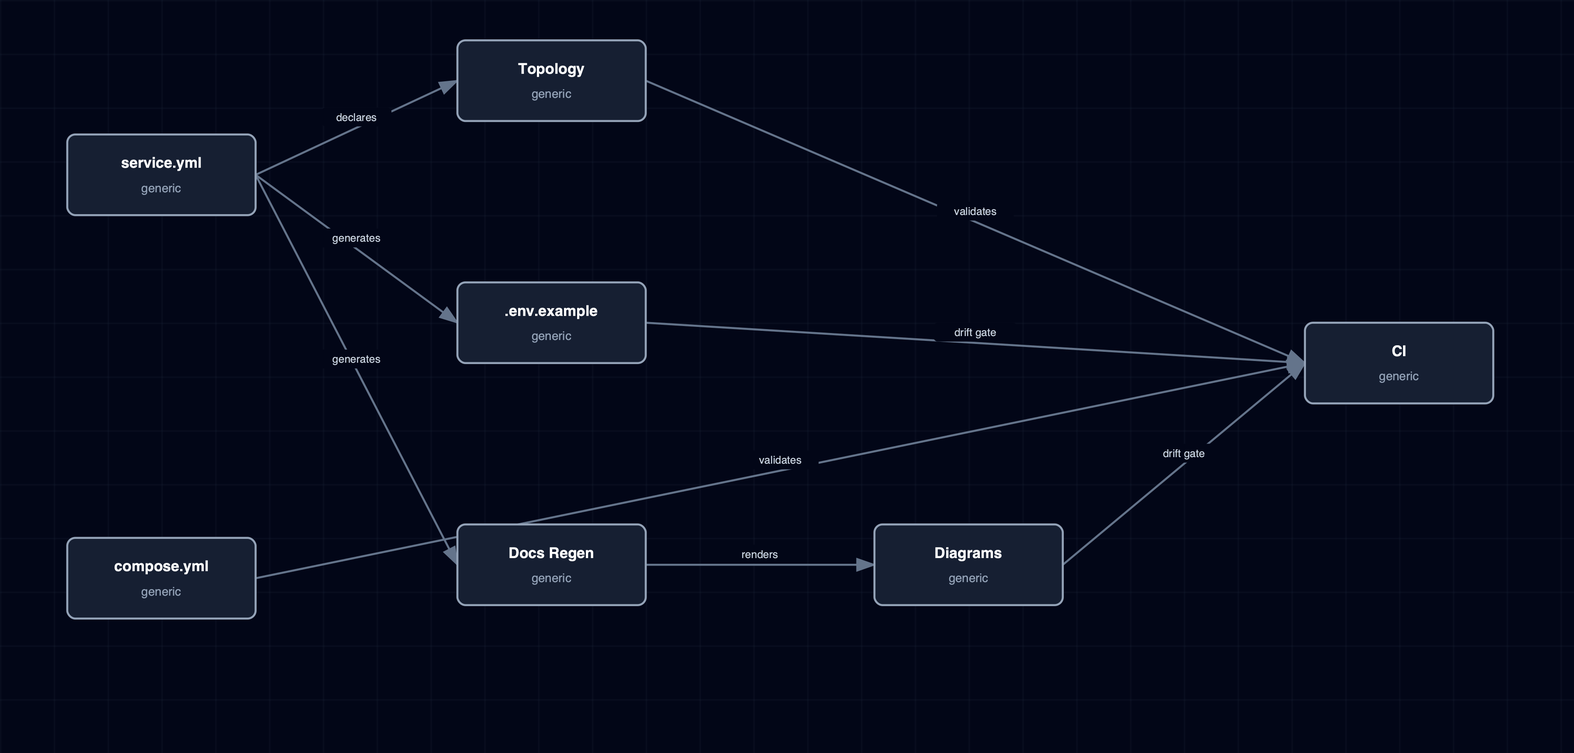
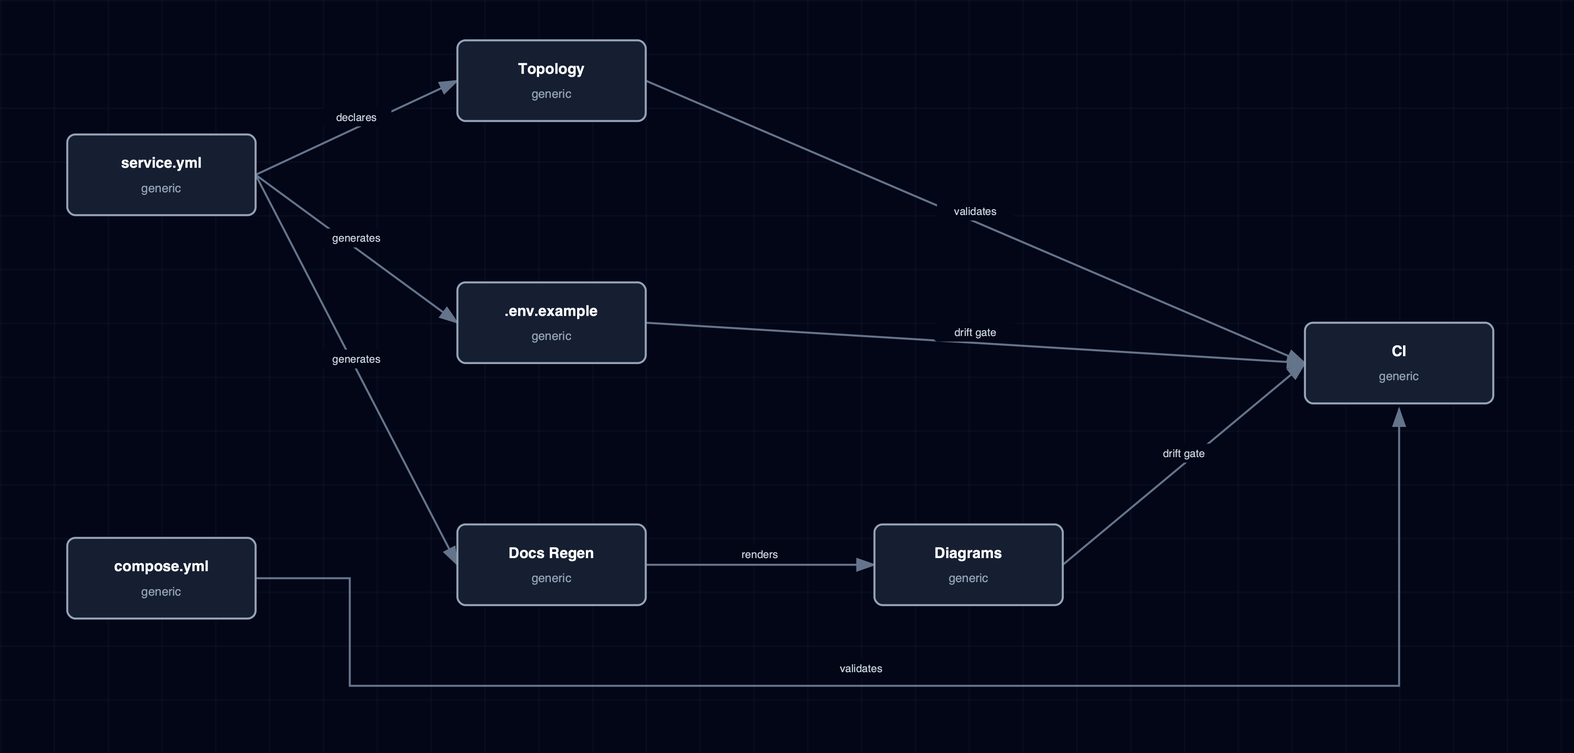
fix(docs): clear perspective connectors and lifecycle labels [skip ci]
Route security injection and Compose validation through clear gutters. Lift lifecycle annotations above fixed cards. Regenerate three HTML and3600px PNG masters. Addresses #1677.

diff --git a/docs/architecture/security-auth-secrets-boundary.html b/docs/architecture/security-auth-secrets-boundary.html
@@ -30,8 +30,8 @@
         </defs>
         <rect width="1380" height="590" fill="#020617"/>
         <rect width="1380" height="590" fill="url(#grid)"/>
-        <line data-source="Gateway Clients" data-target="Kong" x1="180" y1="110" x2="230" y2="110" stroke="#64748b" stroke-width="1.5" marker-end="url(#arrowhead)"/><line data-source="Kong" data-target="Kong Route Policies" x1="370" y1="110" x2="420" y2="110" stroke="#64748b" stroke-width="1.5" marker-end="url(#arrowhead)"/><line data-source="Kong Route Policies" data-target="Routed Services" x1="560" y1="110" x2="610" y2="110" stroke="#64748b" stroke-width="1.5" marker-end="url(#arrowhead)"/><line data-source="Routed Services" data-target="Backend API" x1="750" y1="110" x2="800" y2="180" stroke="#64748b" stroke-width="1.5" marker-end="url(#arrowhead)"/><line data-source="Routed Services" data-target="Public APIs" x1="750" y1="110" x2="990" y2="50" stroke="#64748b" stroke-width="1.5" marker-end="url(#arrowhead)"/><line data-source="Backend API" data-target="Public APIs" x1="940" y1="180" x2="990" y2="50" stroke="#64748b" stroke-width="1.5" marker-end="url(#arrowhead)"/><line data-source="Backend API" data-target="Backend Identity" x1="940" y1="180" x2="990" y2="310" stroke="#64748b" stroke-width="1.5" marker-end="url(#arrowhead)"/><line data-source="Supabase Auth" data-target="Backend Identity" x1="940" y1="310" x2="990" y2="310" stroke="#64748b" stroke-width="1.5" marker-end="url(#arrowhead)"/><line data-source="Backend Identity" data-target="Protected APIs" x1="1130" y1="310" x2="1180" y2="245" stroke="#64748b" stroke-width="1.5" marker-end="url(#arrowhead)"/><line data-source="Backend API" data-target="Plugin Key Auth" x1="940" y1="180" x2="990" y2="180" stroke="#64748b" stroke-width="1.5" marker-end="url(#arrowhead)"/><line data-source="Plugin Key Auth" data-target="Protected APIs" x1="1130" y1="180" x2="1180" y2="245" stroke="#64748b" stroke-width="1.5" marker-end="url(#arrowhead)"/><line data-source="Direct Clients" data-target="Backend API" x1="180" y1="370" x2="800" y2="180" stroke="#64748b" stroke-width="1.5" marker-end="url(#arrowhead)"/><line data-source="Direct Clients" data-target="Trusted UIs" x1="180" y1="370" x2="230" y2="500" stroke="#64748b" stroke-width="1.5" marker-end="url(#arrowhead)"/><line data-source="Runtime Secrets" data-target="Protected APIs" x1="1320" y1="500" x2="1180" y2="245" stroke="#64748b" stroke-width="1.5" marker-end="url(#arrowhead)"/>
-        <rect x="181.5" y="95.0" width="47" height="14" rx="3" fill="#020617"/><text x="205.0" y="105.0" fill="#cbd5e1" font-size="8" text-anchor="middle">gateway</text><rect x="374.0" y="95.0" width="42" height="14" rx="3" fill="#020617"/><text x="395.0" y="105.0" fill="#cbd5e1" font-size="8" text-anchor="middle">policy</text><rect x="561.5" y="95.0" width="47" height="14" rx="3" fill="#020617"/><text x="585.0" y="105.0" fill="#cbd5e1" font-size="8" text-anchor="middle">forward</text><rect x="751.5" y="130.0" width="47" height="14" rx="3" fill="#020617"/><text x="775.0" y="140.0" fill="#cbd5e1" font-size="8" text-anchor="middle">backend</text><rect x="849.0" y="65.0" width="42" height="14" rx="3" fill="#020617"/><text x="870.0" y="75.0" fill="#cbd5e1" font-size="8" text-anchor="middle">public</text><rect x="944.0" y="100.0" width="42" height="14" rx="3" fill="#020617"/><text x="965.0" y="110.0" fill="#cbd5e1" font-size="8" text-anchor="middle">public</text><rect x="939.0" y="230.0" width="52" height="14" rx="3" fill="#020617"/><text x="965.0" y="240.0" fill="#cbd5e1" font-size="8" text-anchor="middle">identity</text><rect x="945.0" y="295.0" width="40" height="14" rx="3" fill="#020617"/><text x="965.0" y="305.0" fill="#cbd5e1" font-size="8" text-anchor="middle">JWT</text><rect x="1126.5" y="262.5" width="57" height="14" rx="3" fill="#020617"/><text x="1155.0" y="272.5" fill="#cbd5e1" font-size="8" text-anchor="middle">authorize</text><rect x="944.0" y="165.0" width="42" height="14" rx="3" fill="#020617"/><text x="965.0" y="175.0" fill="#cbd5e1" font-size="8" text-anchor="middle">plugin</text><rect x="1135.0" y="197.5" width="40" height="14" rx="3" fill="#020617"/><text x="1155.0" y="207.5" fill="#cbd5e1" font-size="8" text-anchor="middle">key</text><rect x="456.5" y="260.0" width="67" height="14" rx="3" fill="#020617"/><text x="490.0" y="270.0" fill="#cbd5e1" font-size="8" text-anchor="middle">direct port</text><rect x="161.5" y="420.0" width="87" height="14" rx="3" fill="#020617"/><text x="205.0" y="430.0" fill="#cbd5e1" font-size="8" text-anchor="middle">operator access</text><rect x="1229.0" y="357.5" width="42" height="14" rx="3" fill="#020617"/><text x="1250.0" y="367.5" fill="#cbd5e1" font-size="8" text-anchor="middle">inject</text>
+        <line data-source="Gateway Clients" data-target="Kong" x1="180" y1="110" x2="230" y2="110" stroke="#64748b" stroke-width="1.5" marker-end="url(#arrowhead)"/><line data-source="Kong" data-target="Kong Route Policies" x1="370" y1="110" x2="420" y2="110" stroke="#64748b" stroke-width="1.5" marker-end="url(#arrowhead)"/><line data-source="Kong Route Policies" data-target="Routed Services" x1="560" y1="110" x2="610" y2="110" stroke="#64748b" stroke-width="1.5" marker-end="url(#arrowhead)"/><line data-source="Routed Services" data-target="Backend API" x1="750" y1="110" x2="800" y2="180" stroke="#64748b" stroke-width="1.5" marker-end="url(#arrowhead)"/><line data-source="Routed Services" data-target="Public APIs" x1="750" y1="110" x2="990" y2="50" stroke="#64748b" stroke-width="1.5" marker-end="url(#arrowhead)"/><line data-source="Backend API" data-target="Public APIs" x1="940" y1="180" x2="990" y2="50" stroke="#64748b" stroke-width="1.5" marker-end="url(#arrowhead)"/><line data-source="Backend API" data-target="Backend Identity" x1="940" y1="180" x2="990" y2="310" stroke="#64748b" stroke-width="1.5" marker-end="url(#arrowhead)"/><line data-source="Supabase Auth" data-target="Backend Identity" x1="940" y1="310" x2="990" y2="310" stroke="#64748b" stroke-width="1.5" marker-end="url(#arrowhead)"/><line data-source="Backend Identity" data-target="Protected APIs" x1="1130" y1="310" x2="1180" y2="245" stroke="#64748b" stroke-width="1.5" marker-end="url(#arrowhead)"/><line data-source="Backend API" data-target="Plugin Key Auth" x1="940" y1="180" x2="990" y2="180" stroke="#64748b" stroke-width="1.5" marker-end="url(#arrowhead)"/><line data-source="Plugin Key Auth" data-target="Protected APIs" x1="1130" y1="180" x2="1180" y2="245" stroke="#64748b" stroke-width="1.5" marker-end="url(#arrowhead)"/><line data-source="Direct Clients" data-target="Backend API" x1="180" y1="370" x2="800" y2="180" stroke="#64748b" stroke-width="1.5" marker-end="url(#arrowhead)"/><line data-source="Direct Clients" data-target="Trusted UIs" x1="180" y1="370" x2="230" y2="500" stroke="#64748b" stroke-width="1.5" marker-end="url(#arrowhead)"/><polyline data-source="Runtime Secrets" data-target="Protected APIs" points="1250,466 1250,279" fill="none" stroke="#64748b" stroke-width="1.5" marker-end="url(#arrowhead)"/>
+        <rect x="181.5" y="95.0" width="47" height="14" rx="3" fill="#020617"/><text x="205.0" y="105.0" fill="#cbd5e1" font-size="8" text-anchor="middle">gateway</text><rect x="374.0" y="95.0" width="42" height="14" rx="3" fill="#020617"/><text x="395.0" y="105.0" fill="#cbd5e1" font-size="8" text-anchor="middle">policy</text><rect x="561.5" y="95.0" width="47" height="14" rx="3" fill="#020617"/><text x="585.0" y="105.0" fill="#cbd5e1" font-size="8" text-anchor="middle">forward</text><rect x="751.5" y="130.0" width="47" height="14" rx="3" fill="#020617"/><text x="775.0" y="140.0" fill="#cbd5e1" font-size="8" text-anchor="middle">backend</text><rect x="849.0" y="65.0" width="42" height="14" rx="3" fill="#020617"/><text x="870.0" y="75.0" fill="#cbd5e1" font-size="8" text-anchor="middle">public</text><rect x="944.0" y="100.0" width="42" height="14" rx="3" fill="#020617"/><text x="965.0" y="110.0" fill="#cbd5e1" font-size="8" text-anchor="middle">public</text><rect x="939.0" y="230.0" width="52" height="14" rx="3" fill="#020617"/><text x="965.0" y="240.0" fill="#cbd5e1" font-size="8" text-anchor="middle">identity</text><rect x="945.0" y="295.0" width="40" height="14" rx="3" fill="#020617"/><text x="965.0" y="305.0" fill="#cbd5e1" font-size="8" text-anchor="middle">JWT</text><rect x="1126.5" y="262.5" width="57" height="14" rx="3" fill="#020617"/><text x="1155.0" y="272.5" fill="#cbd5e1" font-size="8" text-anchor="middle">authorize</text><rect x="944.0" y="165.0" width="42" height="14" rx="3" fill="#020617"/><text x="965.0" y="175.0" fill="#cbd5e1" font-size="8" text-anchor="middle">plugin</text><rect x="1135.0" y="197.5" width="40" height="14" rx="3" fill="#020617"/><text x="1155.0" y="207.5" fill="#cbd5e1" font-size="8" text-anchor="middle">key</text><rect x="456.5" y="260.0" width="67" height="14" rx="3" fill="#020617"/><text x="490.0" y="270.0" fill="#cbd5e1" font-size="8" text-anchor="middle">direct port</text><rect x="161.5" y="420.0" width="87" height="14" rx="3" fill="#020617"/><text x="205.0" y="430.0" fill="#cbd5e1" font-size="8" text-anchor="middle">operator access</text><rect x="1229.0" y="360" width="42" height="14" rx="3" fill="#020617"/><text x="1250" y="370" fill="#cbd5e1" font-size="8" text-anchor="middle">inject</text>
         <rect x="40" y="80" width="140" height="60" rx="6" fill="#0f172a"/><rect x="40" y="80" width="140" height="60" rx="6" fill="rgba(8, 51, 68, 0.4)" stroke="#22d3ee" stroke-width="1.5"/><text x="110.0" y="105" fill="white" font-size="11" font-weight="600" text-anchor="middle">Gateway Clients</text><text x="110.0" y="123" fill="#94a3b8" font-size="9" text-anchor="middle">frontend</text><rect x="40" y="340" width="140" height="60" rx="6" fill="#0f172a"/><rect x="40" y="340" width="140" height="60" rx="6" fill="rgba(8, 51, 68, 0.4)" stroke="#22d3ee" stroke-width="1.5"/><text x="110.0" y="365" fill="white" font-size="11" font-weight="600" text-anchor="middle">Direct Clients</text><text x="110.0" y="383" fill="#94a3b8" font-size="9" text-anchor="middle">frontend</text><rect x="230" y="80" width="140" height="60" rx="6" fill="#0f172a"/><rect x="230" y="80" width="140" height="60" rx="6" fill="rgba(136, 19, 55, 0.4)" stroke="#fb7185" stroke-width="1.5"/><text x="300.0" y="105" fill="white" font-size="11" font-weight="600" text-anchor="middle">Kong</text><text x="300.0" y="123" fill="#94a3b8" font-size="9" text-anchor="middle">security</text><rect x="420" y="80" width="140" height="60" rx="6" fill="#0f172a"/><rect x="420" y="80" width="140" height="60" rx="6" fill="rgba(136, 19, 55, 0.4)" stroke="#fb7185" stroke-width="1.5"/><text x="490.0" y="105" fill="white" font-size="11" font-weight="600" text-anchor="middle">Kong Route Policies</text><text x="490.0" y="123" fill="#94a3b8" font-size="9" text-anchor="middle">security</text><rect x="610" y="80" width="140" height="60" rx="6" fill="#0f172a"/><rect x="610" y="80" width="140" height="60" rx="6" fill="rgba(6, 78, 59, 0.4)" stroke="#34d399" stroke-width="1.5"/><text x="680.0" y="105" fill="white" font-size="11" font-weight="600" text-anchor="middle">Routed Services</text><text x="680.0" y="123" fill="#94a3b8" font-size="9" text-anchor="middle">backend</text><rect x="800" y="150" width="140" height="60" rx="6" fill="#0f172a"/><rect x="800" y="150" width="140" height="60" rx="6" fill="rgba(6, 78, 59, 0.4)" stroke="#34d399" stroke-width="1.5"/><text x="870.0" y="175" fill="white" font-size="11" font-weight="600" text-anchor="middle">Backend API</text><text x="870.0" y="193" fill="#94a3b8" font-size="9" text-anchor="middle">backend</text><rect x="800" y="280" width="140" height="60" rx="6" fill="#0f172a"/><rect x="800" y="280" width="140" height="60" rx="6" fill="rgba(76, 29, 149, 0.4)" stroke="#a78bfa" stroke-width="1.5"/><text x="870.0" y="305" fill="white" font-size="11" font-weight="600" text-anchor="middle">Supabase Auth</text><text x="870.0" y="323" fill="#94a3b8" font-size="9" text-anchor="middle">data</text><rect x="990" y="280" width="140" height="60" rx="6" fill="#0f172a"/><rect x="990" y="280" width="140" height="60" rx="6" fill="rgba(136, 19, 55, 0.4)" stroke="#fb7185" stroke-width="1.5"/><text x="1060.0" y="305" fill="white" font-size="11" font-weight="600" text-anchor="middle">Backend Identity</text><text x="1060.0" y="323" fill="#94a3b8" font-size="9" text-anchor="middle">security</text><rect x="990" y="150" width="140" height="60" rx="6" fill="#0f172a"/><rect x="990" y="150" width="140" height="60" rx="6" fill="rgba(136, 19, 55, 0.4)" stroke="#fb7185" stroke-width="1.5"/><text x="1060.0" y="175" fill="white" font-size="11" font-weight="600" text-anchor="middle">Plugin Key Auth</text><text x="1060.0" y="193" fill="#94a3b8" font-size="9" text-anchor="middle">security</text><rect x="1180" y="215" width="140" height="60" rx="6" fill="#0f172a"/><rect x="1180" y="215" width="140" height="60" rx="6" fill="rgba(6, 78, 59, 0.4)" stroke="#34d399" stroke-width="1.5"/><text x="1250.0" y="240" fill="white" font-size="11" font-weight="600" text-anchor="middle">Protected APIs</text><text x="1250.0" y="258" fill="#94a3b8" font-size="9" text-anchor="middle">backend</text><rect x="990" y="20" width="140" height="60" rx="6" fill="#0f172a"/><rect x="990" y="20" width="140" height="60" rx="6" fill="rgba(6, 78, 59, 0.4)" stroke="#34d399" stroke-width="1.5"/><text x="1060.0" y="45" fill="white" font-size="11" font-weight="600" text-anchor="middle">Public APIs</text><text x="1060.0" y="63" fill="#94a3b8" font-size="9" text-anchor="middle">backend</text><rect x="1180" y="470" width="140" height="60" rx="6" fill="#0f172a"/><rect x="1180" y="470" width="140" height="60" rx="6" fill="rgba(136, 19, 55, 0.4)" stroke="#fb7185" stroke-width="1.5"/><text x="1250.0" y="495" fill="white" font-size="11" font-weight="600" text-anchor="middle">Runtime Secrets</text><text x="1250.0" y="513" fill="#94a3b8" font-size="9" text-anchor="middle">security</text><rect x="230" y="470" width="140" height="60" rx="6" fill="#0f172a"/><rect x="230" y="470" width="140" height="60" rx="6" fill="rgba(136, 19, 55, 0.4)" stroke="#fb7185" stroke-width="1.5"/><text x="300.0" y="495" fill="white" font-size="11" font-weight="600" text-anchor="middle">Trusted UIs</text><text x="300.0" y="513" fill="#94a3b8" font-size="9" text-anchor="middle">security</text>
       </svg>
     </div>

diff --git a/docs/architecture/service-admission-workflow.html b/docs/architecture/service-admission-workflow.html
@@ -30,8 +30,8 @@
         </defs>
         <rect width="1170" height="560" fill="#020617"/>
         <rect width="1170" height="560" fill="url(#grid)"/>
-        <line data-source="service.yml" data-target="Topology" x1="190" y1="130" x2="340" y2="60" stroke="#64748b" stroke-width="1.5" marker-end="url(#arrowhead)"/><line data-source="service.yml" data-target=".env.example" x1="190" y1="130" x2="340" y2="240" stroke="#64748b" stroke-width="1.5" marker-end="url(#arrowhead)"/><line data-source="service.yml" data-target="Docs Regen" x1="190" y1="130" x2="340" y2="420" stroke="#64748b" stroke-width="1.5" marker-end="url(#arrowhead)"/><line data-source="compose.yml" data-target="CI" x1="190" y1="430" x2="970" y2="270" stroke="#64748b" stroke-width="1.5" marker-end="url(#arrowhead)"/><line data-source="Topology" data-target="CI" x1="480" y1="60" x2="970" y2="270" stroke="#64748b" stroke-width="1.5" marker-end="url(#arrowhead)"/><line data-source=".env.example" data-target="CI" x1="480" y1="240" x2="970" y2="270" stroke="#64748b" stroke-width="1.5" marker-end="url(#arrowhead)"/><line data-source="Docs Regen" data-target="Diagrams" x1="480" y1="420" x2="650" y2="420" stroke="#64748b" stroke-width="1.5" marker-end="url(#arrowhead)"/><line data-source="Diagrams" data-target="CI" x1="790" y1="420" x2="970" y2="270" stroke="#64748b" stroke-width="1.5" marker-end="url(#arrowhead)"/>
-        <rect x="239.0" y="80.0" width="52" height="14" rx="3" fill="#020617"/><text x="265.0" y="90.0" fill="#cbd5e1" font-size="8" text-anchor="middle">declares</text><rect x="236.5" y="170.0" width="57" height="14" rx="3" fill="#020617"/><text x="265.0" y="180.0" fill="#cbd5e1" font-size="8" text-anchor="middle">generates</text><rect x="236.5" y="260.0" width="57" height="14" rx="3" fill="#020617"/><text x="265.0" y="270.0" fill="#cbd5e1" font-size="8" text-anchor="middle">generates</text><rect x="551.5" y="335.0" width="57" height="14" rx="3" fill="#020617"/><text x="580.0" y="345.0" fill="#cbd5e1" font-size="8" text-anchor="middle">validates</text><rect x="696.5" y="150.0" width="57" height="14" rx="3" fill="#020617"/><text x="725.0" y="160.0" fill="#cbd5e1" font-size="8" text-anchor="middle">validates</text><rect x="694.0" y="240.0" width="62" height="14" rx="3" fill="#020617"/><text x="725.0" y="250.0" fill="#cbd5e1" font-size="8" text-anchor="middle">drift gate</text><rect x="541.5" y="405.0" width="47" height="14" rx="3" fill="#020617"/><text x="565.0" y="415.0" fill="#cbd5e1" font-size="8" text-anchor="middle">renders</text><rect x="849.0" y="330.0" width="62" height="14" rx="3" fill="#020617"/><text x="880.0" y="340.0" fill="#cbd5e1" font-size="8" text-anchor="middle">drift gate</text>
+        <line data-source="service.yml" data-target="Topology" x1="190" y1="130" x2="340" y2="60" stroke="#64748b" stroke-width="1.5" marker-end="url(#arrowhead)"/><line data-source="service.yml" data-target=".env.example" x1="190" y1="130" x2="340" y2="240" stroke="#64748b" stroke-width="1.5" marker-end="url(#arrowhead)"/><line data-source="service.yml" data-target="Docs Regen" x1="190" y1="130" x2="340" y2="420" stroke="#64748b" stroke-width="1.5" marker-end="url(#arrowhead)"/><polyline data-source="compose.yml" data-target="CI" points="190,430 260,430 260,510 1040,510 1040,304" fill="none" stroke="#64748b" stroke-width="1.5" marker-end="url(#arrowhead)"/><line data-source="Topology" data-target="CI" x1="480" y1="60" x2="970" y2="270" stroke="#64748b" stroke-width="1.5" marker-end="url(#arrowhead)"/><line data-source=".env.example" data-target="CI" x1="480" y1="240" x2="970" y2="270" stroke="#64748b" stroke-width="1.5" marker-end="url(#arrowhead)"/><line data-source="Docs Regen" data-target="Diagrams" x1="480" y1="420" x2="650" y2="420" stroke="#64748b" stroke-width="1.5" marker-end="url(#arrowhead)"/><line data-source="Diagrams" data-target="CI" x1="790" y1="420" x2="970" y2="270" stroke="#64748b" stroke-width="1.5" marker-end="url(#arrowhead)"/>
+        <rect x="239.0" y="80.0" width="52" height="14" rx="3" fill="#020617"/><text x="265.0" y="90.0" fill="#cbd5e1" font-size="8" text-anchor="middle">declares</text><rect x="236.5" y="170.0" width="57" height="14" rx="3" fill="#020617"/><text x="265.0" y="180.0" fill="#cbd5e1" font-size="8" text-anchor="middle">generates</text><rect x="236.5" y="260.0" width="57" height="14" rx="3" fill="#020617"/><text x="265.0" y="270.0" fill="#cbd5e1" font-size="8" text-anchor="middle">generates</text><rect x="611.5" y="490" width="57" height="14" rx="3" fill="#020617"/><text x="640" y="500" fill="#cbd5e1" font-size="8" text-anchor="middle">validates</text><rect x="696.5" y="150.0" width="57" height="14" rx="3" fill="#020617"/><text x="725.0" y="160.0" fill="#cbd5e1" font-size="8" text-anchor="middle">validates</text><rect x="694.0" y="240.0" width="62" height="14" rx="3" fill="#020617"/><text x="725.0" y="250.0" fill="#cbd5e1" font-size="8" text-anchor="middle">drift gate</text><rect x="541.5" y="405.0" width="47" height="14" rx="3" fill="#020617"/><text x="565.0" y="415.0" fill="#cbd5e1" font-size="8" text-anchor="middle">renders</text><rect x="849.0" y="330.0" width="62" height="14" rx="3" fill="#020617"/><text x="880.0" y="340.0" fill="#cbd5e1" font-size="8" text-anchor="middle">drift gate</text>
         <rect x="50" y="100" width="140" height="60" rx="6" fill="#0f172a"/><rect x="50" y="100" width="140" height="60" rx="6" fill="rgba(30, 41, 59, 0.5)" stroke="#94a3b8" stroke-width="1.5"/><text x="120.0" y="125" fill="white" font-size="11" font-weight="600" text-anchor="middle">service.yml</text><text x="120.0" y="143" fill="#94a3b8" font-size="9" text-anchor="middle">generic</text><rect x="50" y="400" width="140" height="60" rx="6" fill="#0f172a"/><rect x="50" y="400" width="140" height="60" rx="6" fill="rgba(30, 41, 59, 0.5)" stroke="#94a3b8" stroke-width="1.5"/><text x="120.0" y="425" fill="white" font-size="11" font-weight="600" text-anchor="middle">compose.yml</text><text x="120.0" y="443" fill="#94a3b8" font-size="9" text-anchor="middle">generic</text><rect x="340" y="30" width="140" height="60" rx="6" fill="#0f172a"/><rect x="340" y="30" width="140" height="60" rx="6" fill="rgba(30, 41, 59, 0.5)" stroke="#94a3b8" stroke-width="1.5"/><text x="410.0" y="55" fill="white" font-size="11" font-weight="600" text-anchor="middle">Topology</text><text x="410.0" y="73" fill="#94a3b8" font-size="9" text-anchor="middle">generic</text><rect x="340" y="210" width="140" height="60" rx="6" fill="#0f172a"/><rect x="340" y="210" width="140" height="60" rx="6" fill="rgba(30, 41, 59, 0.5)" stroke="#94a3b8" stroke-width="1.5"/><text x="410.0" y="235" fill="white" font-size="11" font-weight="600" text-anchor="middle">.env.example</text><text x="410.0" y="253" fill="#94a3b8" font-size="9" text-anchor="middle">generic</text><rect x="340" y="390" width="140" height="60" rx="6" fill="#0f172a"/><rect x="340" y="390" width="140" height="60" rx="6" fill="rgba(30, 41, 59, 0.5)" stroke="#94a3b8" stroke-width="1.5"/><text x="410.0" y="415" fill="white" font-size="11" font-weight="600" text-anchor="middle">Docs Regen</text><text x="410.0" y="433" fill="#94a3b8" font-size="9" text-anchor="middle">generic</text><rect x="650" y="390" width="140" height="60" rx="6" fill="#0f172a"/><rect x="650" y="390" width="140" height="60" rx="6" fill="rgba(30, 41, 59, 0.5)" stroke="#94a3b8" stroke-width="1.5"/><text x="720.0" y="415" fill="white" font-size="11" font-weight="600" text-anchor="middle">Diagrams</text><text x="720.0" y="433" fill="#94a3b8" font-size="9" text-anchor="middle">generic</text><rect x="970" y="240" width="140" height="60" rx="6" fill="#0f172a"/><rect x="970" y="240" width="140" height="60" rx="6" fill="rgba(30, 41, 59, 0.5)" stroke="#94a3b8" stroke-width="1.5"/><text x="1040.0" y="265" fill="white" font-size="11" font-weight="600" text-anchor="middle">CI</text><text x="1040.0" y="283" fill="#94a3b8" font-size="9" text-anchor="middle">generic</text>
       </svg>
     </div>

diff --git a/docs/architecture/bootstrapper-lifecycle.html b/docs/architecture/bootstrapper-lifecycle.html
@@ -30,8 +30,8 @@
         </defs>
         <rect width="1465" height="560" fill="#020617"/>
         <rect width="1465" height="560" fill="url(#grid)"/>
-        <line data-source="start.sh" data-target="Env Load" x1="180" y1="260" x2="215" y2="260" stroke="#64748b" stroke-width="1.5" marker-end="url(#arrowhead)"/><line data-source="Env Load" data-target="Migrations" x1="355" y1="260" x2="390" y2="260" stroke="#64748b" stroke-width="1.5" marker-end="url(#arrowhead)"/><line data-source="Migrations" data-target="Manifests" x1="530" y1="260" x2="565" y2="260" stroke="#64748b" stroke-width="1.5" marker-end="url(#arrowhead)"/><line data-source="Manifests" data-target="Tracks" x1="705" y1="260" x2="740" y2="260" stroke="#64748b" stroke-width="1.5" marker-end="url(#arrowhead)"/><line data-source="Tracks" data-target="Kong Routes" x1="880" y1="260" x2="915" y2="260" stroke="#64748b" stroke-width="1.5" marker-end="url(#arrowhead)"/><line data-source="Kong Routes" data-target="Compose" x1="1055" y1="260" x2="1090" y2="260" stroke="#64748b" stroke-width="1.5" marker-end="url(#arrowhead)"/><line data-source="Compose" data-target="Logs" x1="1230" y1="260" x2="1265" y2="260" stroke="#64748b" stroke-width="1.5" marker-end="url(#arrowhead)"/>
-        <rect x="176.5" y="245.0" width="42" height="14" rx="3" fill="#020617"/><text x="197.5" y="255.0" fill="#cbd5e1" font-size="8" text-anchor="middle">invoke</text><rect x="344.0" y="245.0" width="57" height="14" rx="3" fill="#020617"/><text x="372.5" y="255.0" fill="#cbd5e1" font-size="8" text-anchor="middle">normalize</text><rect x="516.5" y="245.0" width="62" height="14" rx="3" fill="#020617"/><text x="547.5" y="255.0" fill="#cbd5e1" font-size="8" text-anchor="middle">synthesize</text><rect x="701.5" y="245.0" width="42" height="14" rx="3" fill="#020617"/><text x="722.5" y="255.0" fill="#cbd5e1" font-size="8" text-anchor="middle">filter</text><rect x="871.5" y="245.0" width="52" height="14" rx="3" fill="#020617"/><text x="897.5" y="255.0" fill="#cbd5e1" font-size="8" text-anchor="middle">generate</text><rect x="1046.5" y="245.0" width="52" height="14" rx="3" fill="#020617"/><text x="1072.5" y="255.0" fill="#cbd5e1" font-size="8" text-anchor="middle">assemble</text><rect x="1226.5" y="245.0" width="42" height="14" rx="3" fill="#020617"/><text x="1247.5" y="255.0" fill="#cbd5e1" font-size="8" text-anchor="middle">launch</text>
+        <polyline data-source="start.sh" data-target="Env Load" points="180,260 215,260" fill="none" stroke="#64748b" stroke-width="1.5" marker-end="url(#arrowhead)"/><polyline data-source="Env Load" data-target="Migrations" points="355,260 390,260" fill="none" stroke="#64748b" stroke-width="1.5" marker-end="url(#arrowhead)"/><polyline data-source="Migrations" data-target="Manifests" points="530,260 565,260" fill="none" stroke="#64748b" stroke-width="1.5" marker-end="url(#arrowhead)"/><polyline data-source="Manifests" data-target="Tracks" points="705,260 740,260" fill="none" stroke="#64748b" stroke-width="1.5" marker-end="url(#arrowhead)"/><polyline data-source="Tracks" data-target="Kong Routes" points="880,260 915,260" fill="none" stroke="#64748b" stroke-width="1.5" marker-end="url(#arrowhead)"/><polyline data-source="Kong Routes" data-target="Compose" points="1055,260 1090,260" fill="none" stroke="#64748b" stroke-width="1.5" marker-end="url(#arrowhead)"/><polyline data-source="Compose" data-target="Logs" points="1230,260 1265,260" fill="none" stroke="#64748b" stroke-width="1.5" marker-end="url(#arrowhead)"/>
+        <rect x="176.5" y="210" width="42" height="14" rx="3" fill="#020617"/><text x="197.5" y="220" fill="#cbd5e1" font-size="8" text-anchor="middle">invoke</text><rect x="344.0" y="210" width="57" height="14" rx="3" fill="#020617"/><text x="372.5" y="220" fill="#cbd5e1" font-size="8" text-anchor="middle">normalize</text><rect x="516.5" y="210" width="62" height="14" rx="3" fill="#020617"/><text x="547.5" y="220" fill="#cbd5e1" font-size="8" text-anchor="middle">synthesize</text><rect x="701.5" y="210" width="42" height="14" rx="3" fill="#020617"/><text x="722.5" y="220" fill="#cbd5e1" font-size="8" text-anchor="middle">filter</text><rect x="871.5" y="210" width="52" height="14" rx="3" fill="#020617"/><text x="897.5" y="220" fill="#cbd5e1" font-size="8" text-anchor="middle">generate</text><rect x="1046.5" y="210" width="52" height="14" rx="3" fill="#020617"/><text x="1072.5" y="220" fill="#cbd5e1" font-size="8" text-anchor="middle">assemble</text><rect x="1226.5" y="210" width="42" height="14" rx="3" fill="#020617"/><text x="1247.5" y="220" fill="#cbd5e1" font-size="8" text-anchor="middle">launch</text>
         <rect x="40" y="230" width="140" height="60" rx="6" fill="#0f172a"/><rect x="40" y="230" width="140" height="60" rx="6" fill="rgba(30, 41, 59, 0.5)" stroke="#94a3b8" stroke-width="1.5"/><text x="110.0" y="255" fill="white" font-size="11" font-weight="600" text-anchor="middle">start.sh</text><text x="110.0" y="273" fill="#94a3b8" font-size="9" text-anchor="middle">generic</text><rect x="215" y="230" width="140" height="60" rx="6" fill="#0f172a"/><rect x="215" y="230" width="140" height="60" rx="6" fill="rgba(30, 41, 59, 0.5)" stroke="#94a3b8" stroke-width="1.5"/><text x="285.0" y="255" fill="white" font-size="11" font-weight="600" text-anchor="middle">Env Load</text><text x="285.0" y="273" fill="#94a3b8" font-size="9" text-anchor="middle">generic</text><rect x="390" y="230" width="140" height="60" rx="6" fill="#0f172a"/><rect x="390" y="230" width="140" height="60" rx="6" fill="rgba(30, 41, 59, 0.5)" stroke="#94a3b8" stroke-width="1.5"/><text x="460.0" y="255" fill="white" font-size="11" font-weight="600" text-anchor="middle">Migrations</text><text x="460.0" y="273" fill="#94a3b8" font-size="9" text-anchor="middle">generic</text><rect x="565" y="230" width="140" height="60" rx="6" fill="#0f172a"/><rect x="565" y="230" width="140" height="60" rx="6" fill="rgba(30, 41, 59, 0.5)" stroke="#94a3b8" stroke-width="1.5"/><text x="635.0" y="255" fill="white" font-size="11" font-weight="600" text-anchor="middle">Manifests</text><text x="635.0" y="273" fill="#94a3b8" font-size="9" text-anchor="middle">generic</text><rect x="740" y="230" width="140" height="60" rx="6" fill="#0f172a"/><rect x="740" y="230" width="140" height="60" rx="6" fill="rgba(30, 41, 59, 0.5)" stroke="#94a3b8" stroke-width="1.5"/><text x="810.0" y="255" fill="white" font-size="11" font-weight="600" text-anchor="middle">Tracks</text><text x="810.0" y="273" fill="#94a3b8" font-size="9" text-anchor="middle">generic</text><rect x="915" y="230" width="140" height="60" rx="6" fill="#0f172a"/><rect x="915" y="230" width="140" height="60" rx="6" fill="rgba(30, 41, 59, 0.5)" stroke="#94a3b8" stroke-width="1.5"/><text x="985.0" y="255" fill="white" font-size="11" font-weight="600" text-anchor="middle">Kong Routes</text><text x="985.0" y="273" fill="#94a3b8" font-size="9" text-anchor="middle">generic</text><rect x="1090" y="230" width="140" height="60" rx="6" fill="#0f172a"/><rect x="1090" y="230" width="140" height="60" rx="6" fill="rgba(30, 41, 59, 0.5)" stroke="#94a3b8" stroke-width="1.5"/><text x="1160.0" y="255" fill="white" font-size="11" font-weight="600" text-anchor="middle">Compose</text><text x="1160.0" y="273" fill="#94a3b8" font-size="9" text-anchor="middle">generic</text><rect x="1265" y="230" width="140" height="60" rx="6" fill="#0f172a"/><rect x="1265" y="230" width="140" height="60" rx="6" fill="rgba(30, 41, 59, 0.5)" stroke="#94a3b8" stroke-width="1.5"/><text x="1335.0" y="255" fill="white" font-size="11" font-weight="600" text-anchor="middle">Logs</text><text x="1335.0" y="273" fill="#94a3b8" font-size="9" text-anchor="middle">generic</text>
       </svg>
     </div>

diff --git a/bootstrapper/tests/test_three_surface_diagrams.py b/bootstrapper/tests/test_three_surface_diagrams.py
@@ -246,3 +246,154 @@ def test_platform_current_arrows_reach_implemented_targets(name, case):
 
     assert any(_poster_contains(point, target) for point in destinations), case
     assert not any(_poster_contains(point, unsupported) for point in destinations), case
+
+
+
+def _perspective_svg(slug):
+    from bootstrapper.docs.sitegen.model import load_docs_model
+    from bootstrapper.docs.sitegen.pages import architecture_pages
+
+    masters = architecture_pages(load_docs_model(ROOT))
+    return ET.fromstring(extract_svg(masters[ROOT / "docs" / "architecture" / f"{slug}.html"]))
+
+
+def _perspective_connector(svg, source, target):
+    connector, = (
+        item for item in svg.findall(".//*[@marker-end]")
+        if (item.get("data-source"), item.get("data-target")) == (source, target)
+    )
+    if connector.tag.rsplit("}", 1)[-1] == "line":
+        points = [tuple(float(connector.get(key)) for key in pair)
+                  for pair in (("x1", "y1"), ("x2", "y2"))]
+    else:
+        assert connector.tag.rsplit("}", 1)[-1] == "polyline"
+        values = list(map(float, re.findall(r"-?\d+(?:\.\d+)?", connector.get("points"))))
+        points = list(zip(values[::2], values[1::2]))
+    return connector, points
+
+
+def _perspective_box_polygon(box, padding=0):
+    x, y, width, height = box
+    left, top = x - padding, y - padding
+    right, bottom = x + width + padding, y + height + padding
+    return [(left, top), (right, top), (right, bottom), (left, bottom)]
+
+
+def _perspective_polygons_overlap(first, second):
+    # Separating axes work for both connector segments and convex marker triangles.
+    for polygon in (first, second):
+        for start, end in zip(polygon, polygon[1:] + polygon[:1]):
+            axis = end[1] - start[1], start[0] - end[0]
+            first_projection = [x * axis[0] + y * axis[1] for x, y in first]
+            second_projection = [x * axis[0] + y * axis[1] for x, y in second]
+            if max(first_projection) <= min(second_projection) or max(second_projection) <= min(first_projection):
+                return False
+    return True
+
+
+def _perspective_marker_polygon(svg, connector, points):
+    from math import hypot
+
+    marker_id = connector.get("marker-end").removeprefix("url(#").removesuffix(")")
+    marker, = svg.findall(f".//{{*}}marker[@id='{marker_id}']")
+    assert marker.get("orient") == "auto" and marker.get("viewBox") is None
+    scale = float(connector.get("stroke-width", "1")) if marker.get("markerUnits", "strokeWidth") == "strokeWidth" else 1
+    ref_x, ref_y = float(marker.get("refX", "0")), float(marker.get("refY", "0"))
+    start, end = points[-2:]
+    dx, dy = end[0] - start[0], end[1] - start[1]
+    length = hypot(dx, dy)
+    ux, uy = dx / length, dy / length
+    polygon, = marker.findall("{*}polygon")
+    values = list(map(float, re.findall(r"-?\d+(?:\.\d+)?", polygon.get("points"))))
+    return [
+        (end[0] + scale * ((x - ref_x) * ux - (y - ref_y) * uy),
+         end[1] + scale * ((x - ref_x) * uy + (y - ref_y) * ux))
+        for x, y in zip(values[::2], values[1::2])
+    ]
+
+
+def _perspective_glyph_box(svg, label, tmp_path):
+    from copy import deepcopy
+    from PIL import Image
+
+    isolated = ET.Element(svg.tag, svg.attrib)
+    isolated.append(deepcopy(label))
+    output = tmp_path / "label.png"
+    svg_to_png(ET.tostring(isolated, encoding="unicode"), output)
+    with Image.open(output) as image:
+        bounds = image.getchannel("A").getbbox()
+        scale = image.width / float(svg.get("viewBox").split()[2])
+    assert bounds is not None
+    left, top, right, bottom = (value / scale for value in bounds)
+    return left, top, right - left, bottom - top
+
+
+def _perspective_backing_box(svg, text, glyph_box):
+    from cairosvg.colors import color
+
+    left, top, width, height = glyph_box
+    corners = ((left, top), (left + width, top + height))
+    candidates = []
+    # Descendant order is SVG paint order even when labels use nested groups.
+    for node in svg.iter():
+        if node is text:
+            break
+        if node.tag.rsplit("}", 1)[-1] != "rect":
+            continue
+        fill = node.get("fill", "black")
+        if fill.startswith("url("):
+            continue
+        alpha = color(fill)[3] * float(node.get("opacity", "1")) * float(node.get("fill-opacity", "1"))
+        if alpha != 1:
+            continue
+        box = tuple(float(node.get(key, "0")) for key in ("x", "y", "width", "height"))
+        if all(_poster_contains(point, box) for point in corners):
+            candidates.append(box)
+    assert candidates, ("no opaque backing covers label glyphs", text.text, glyph_box)
+    return min(candidates, key=lambda box: box[2] * box[3])
+
+
+_PERSPECTIVE_CLEARANCE_CASES = [
+    ("security-auth-secrets-boundary", "Runtime Secrets", "Protected APIs"),
+    ("service-admission-workflow", "compose.yml", "CI"),
+]
+
+
+@pytest.mark.parametrize("slug,source,target", _PERSPECTIVE_CLEARANCE_CASES)
+def test_perspective_connectors_clear_all_opaque_cards(slug, source, target):
+    svg = _perspective_svg(slug)
+    _, points = _perspective_connector(svg, source, target)
+    cards = svg.findall(".//{*}rect[@rx='6'][@fill='#0f172a']")
+    assert cards
+    for card in cards:
+        box = tuple(float(card.get(key)) for key in ("x", "y", "width", "height"))
+        for start, end in zip(points, points[1:]):
+            assert not _perspective_polygons_overlap([start, end], _perspective_box_polygon(box)), (source, target, box, start, end)
+
+
+@pytest.mark.parametrize("slug,source,target", _PERSPECTIVE_CLEARANCE_CASES)
+def test_perspective_complete_markers_clear_card_strokes(slug, source, target):
+    svg = _perspective_svg(slug)
+    connector, points = _perspective_connector(svg, source, target)
+    triangle = _perspective_marker_polygon(svg, connector, points)
+    cards = svg.findall(".//{*}rect[@rx='6'][@stroke]")
+    assert cards
+    for card in cards:
+        box = tuple(float(card.get(key)) for key in ("x", "y", "width", "height"))
+        half_stroke = float(card.get("stroke-width", "1")) / 2
+        assert not _perspective_polygons_overlap(triangle, _perspective_box_polygon(box, half_stroke)), (source, target, box, triangle)
+
+
+@pytest.mark.parametrize("label", ["invoke", "normalize", "synthesize", "filter", "generate", "assemble", "launch"])
+def test_lifecycle_label_glyphs_and_backings_clear_cards(label, tmp_path):
+    svg = _perspective_svg("bootstrapper-lifecycle")
+    text, = (node for node in svg.findall(".//{*}text") if "".join(node.itertext()) == label)
+    glyph_box = _perspective_glyph_box(svg, text, tmp_path)
+    backing_box = _perspective_backing_box(svg, text, glyph_box)
+    cards = svg.findall(".//{*}rect[@rx='6'][@stroke]")
+    assert cards
+    for card in cards:
+        card_box = tuple(float(card.get(key)) for key in ("x", "y", "width", "height"))
+        padding = float(card.get("stroke-width", "1")) / 2 + 2
+        for envelope in (backing_box, glyph_box):
+            assert not _perspective_polygons_overlap(_perspective_box_polygon(envelope), _perspective_box_polygon(card_box, padding)), (label, envelope, card_box)

diff --git a/bootstrapper/docs/sitegen/pages.py b/bootstrapper/docs/sitegen/pages.py
@@ -369,9 +369,28 @@ ARCHITECTURE_ROUTES: dict[
     str,
     dict[
         tuple[str, str],
-        tuple[list[tuple[int, int]], tuple[int, int]],
+        tuple[list[tuple[int, int]], tuple[float, float]],
     ],
 ] = {
+    "security-auth-secrets-boundary": {
+        ("Runtime Secrets", "Protected APIs"): (
+            [(1250, 466), (1250, 279)],
+            (1250, 370),
+        ),
+    },
+    "service-admission-workflow": {
+        ("compose.yml", "CI"): (
+            [(190, 430), (260, 430), (260, 510), (1040, 510), (1040, 304)],
+            (640, 500),
+        ),
+    },
+    "bootstrapper-lifecycle": {
+        (source, target): (
+            [(180 + index * 175, 260), (215 + index * 175, 260)],
+            (197.5 + index * 175, 220),
+        )
+        for index, (source, target, _) in enumerate(ARCHITECTURE_EDGES["bootstrapper-lifecycle"])
+    },
     "observability-flow": {
         ("OTel Collector", "Loki"): (
             [(480, 150), (580, 150), (580, 440), (680, 440)],
@@ -882,7 +901,7 @@ def _architecture_diagram_html(
     positions: dict[str, tuple[int, int]],
     routes: dict[
         tuple[str, str],
-        tuple[list[tuple[int, int]], tuple[int, int]],
+        tuple[list[tuple[int, int]], tuple[float, float]],
     ] | None = None,
 ) -> str:
     boxes = []
